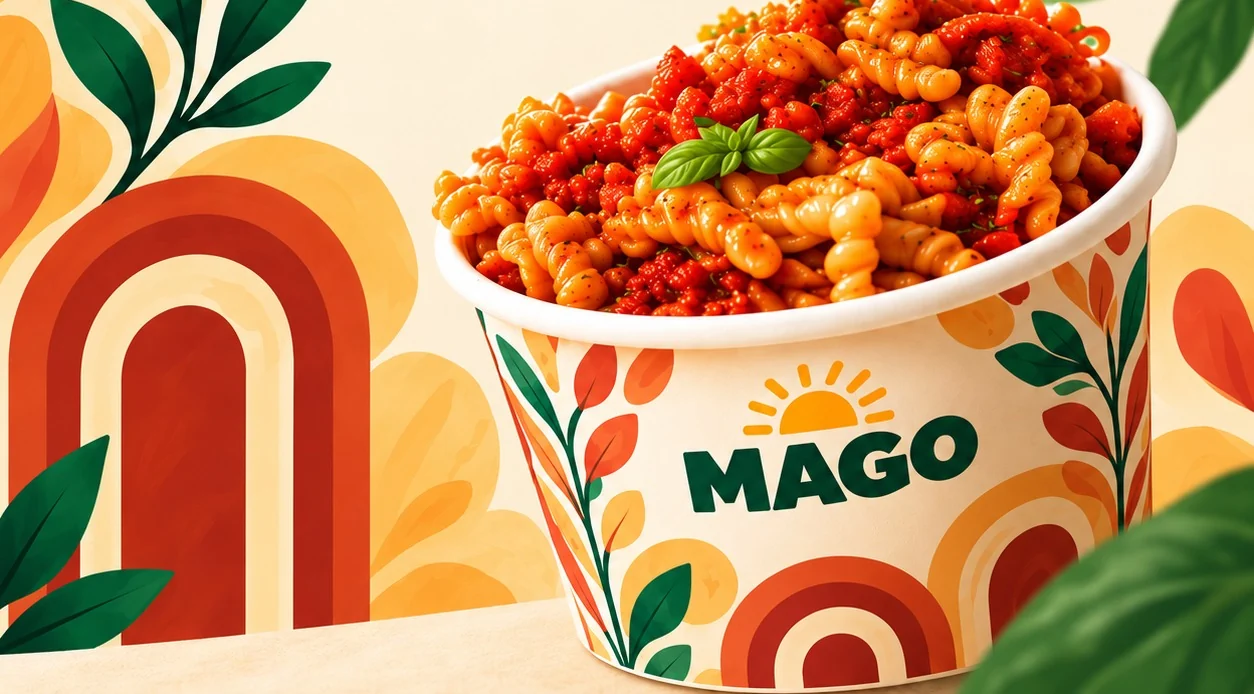
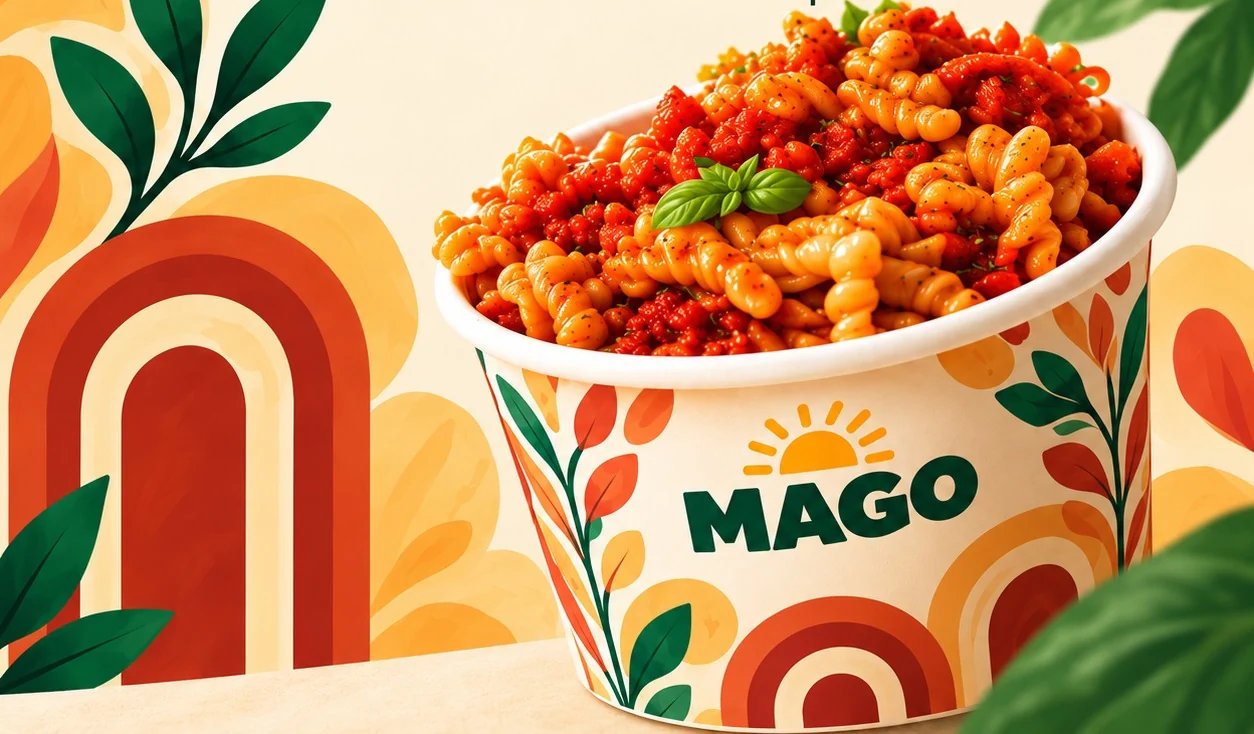
fix(mobile): Mix Box and Our pasta cups headers on phones follow the approved designs with their leaves and arches

diff --git a/src/components/mix-box/MixBoxSections.tsx b/src/components/mix-box/MixBoxSections.tsx
@@ -47,16 +47,19 @@ export function MixBoxHero({ size }: { size: number }) {
   return (
     <section
       aria-label="Build your MAGO Mix Box"
-      className="relative isolate overflow-hidden"
+      className="relative isolate overflow-hidden max-md:bg-[#fcedd2]"
     >
+      {/* Phones: the leaves and arches of the approved design around the text. */}
+      <div aria-hidden className="pointer-events-none absolute top-0 left-0 -z-10 h-[62%] w-[26%] bg-[url('/images/mixbox-deco-left.webp')] bg-cover bg-top [mask-image:linear-gradient(to_right,#000_55%,transparent),linear-gradient(to_bottom,#000_72%,transparent)] [mask-composite:intersect] md:hidden" />
+      <div aria-hidden className="pointer-events-none absolute top-0 right-0 -z-10 h-[66%] w-[26%] bg-[url('/images/mixbox-deco-right.webp')] bg-cover bg-top [mask-image:linear-gradient(to_left,#000_55%,transparent),linear-gradient(to_bottom,#000_72%,transparent)] [mask-composite:intersect] md:hidden" />
       <div className="mx-auto grid max-w-[2560px] md:min-h-[clamp(380px,32vw,760px)] md:grid-cols-[minmax(0,1fr)_minmax(0,1.05fr)]">
         <div className="relative z-10 px-5 pt-8 pb-4 text-center md:flex md:flex-col md:items-start md:justify-center md:py-10 md:pr-0 md:pl-[max(2.5rem,6vw)] xl:pl-[16vw] md:text-left">
           <SunMark className="mx-auto w-20 md:mx-0 md:w-[clamp(5rem,7vw,9rem)]" />
           <h1 className="mt-1 font-display leading-[0.92] font-bold uppercase">
-            <span className="block text-[2.3rem] text-forest sm:text-5xl md:text-[clamp(2.6rem,4.6vw,6.2rem)]">Build your</span>
-            <span className="block text-[2.3rem] whitespace-nowrap text-terracotta sm:text-5xl md:text-[clamp(2.6rem,4.6vw,6.2rem)]">MAGO Mix Box</span>
+            <span className="block text-[2.55rem] text-forest sm:text-5xl md:text-[clamp(2.6rem,4.6vw,6.2rem)]">Build your</span>
+            <span className="block text-[2.55rem] whitespace-nowrap text-terracotta sm:text-5xl md:text-[clamp(2.6rem,4.6vw,6.2rem)]">MAGO Mix Box</span>
           </h1>
-          <p className="mt-3 text-base font-medium text-ink/85 md:text-[clamp(1rem,1.5vw,2rem)]">
+          <p className="mx-auto mt-3 max-w-[18rem] text-base font-medium text-ink/85 md:mx-0 md:max-w-none md:text-[clamp(1rem,1.5vw,2rem)]">
             Pick {size} cups. Your way. More flavours. More fun.
           </p>
           <BoxStepper size={size} className="mt-4 md:mt-5" />

diff --git a/src/components/shop/ShopHero.tsx b/src/components/shop/ShopHero.tsx
@@ -1,10 +1,13 @@
 /** "Our pasta cups" banner: real heading and line over the approved artwork (arch and leaves left, a cup right; phones put the cup under the text). */
 export function ShopHero() {
   return (
-    <section className="relative isolate overflow-hidden">
+    <section className="relative isolate overflow-hidden max-md:bg-[#fcf0d9]">
+      {/* Phones: the leaves and arch of the approved design around the title. */}
+      <div aria-hidden className="pointer-events-none absolute top-0 left-0 -z-10 h-[36%] w-[13%] bg-[url('/images/shop-deco-left.webp')] bg-cover bg-top [mask-image:linear-gradient(to_right,#000_55%,transparent),linear-gradient(to_bottom,#000_70%,transparent)] [mask-composite:intersect] md:hidden" />
+      <div aria-hidden className="pointer-events-none absolute top-0 right-0 -z-10 h-[30%] w-[11%] bg-[url('/images/shop-deco-right.webp')] bg-cover bg-top [mask-image:linear-gradient(to_left,#000_55%,transparent),linear-gradient(to_bottom,#000_70%,transparent)] [mask-composite:intersect] md:hidden" />
       <div className="mx-auto grid max-w-[2560px] md:min-h-[clamp(300px,33vw,760px)] md:grid-cols-[minmax(0,1.25fr)_minmax(0,1fr)]">
-        <div className="relative z-10 px-6 pt-10 pb-2 text-center md:flex md:flex-col md:justify-center md:py-12 md:pr-0 md:pl-[max(3rem,6vw)] xl:pl-[16vw] md:text-left">
-          <h1 className="font-display text-[clamp(2.6rem,11vw,3.4rem)] leading-[0.95] font-bold text-forest uppercase md:text-[clamp(2.6rem,4.9vw,6.4rem)]">
+        <div className="relative z-10 px-9 pt-10 pb-2 text-center md:flex md:flex-col md:justify-center md:py-12 md:pr-0 md:pl-[max(3rem,6vw)] xl:pl-[16vw] md:text-left">
+          <h1 className="font-display text-[clamp(2.8rem,12.5vw,3.8rem)] leading-[0.95] font-bold text-forest uppercase md:text-[clamp(2.6rem,4.9vw,6.4rem)]">
             Our pasta
             <br className="md:hidden" /> cups
           </h1>
@@ -18,7 +21,7 @@ export function ShopHero() {
             <img
               src="/images/shop-head-mobile.webp"
               width={1254}
-              height={694}
+              height={734}
               alt="A MAGO pasta cup full of spicy fusilli"
               loading="eager"
               fetchPriority="high"
